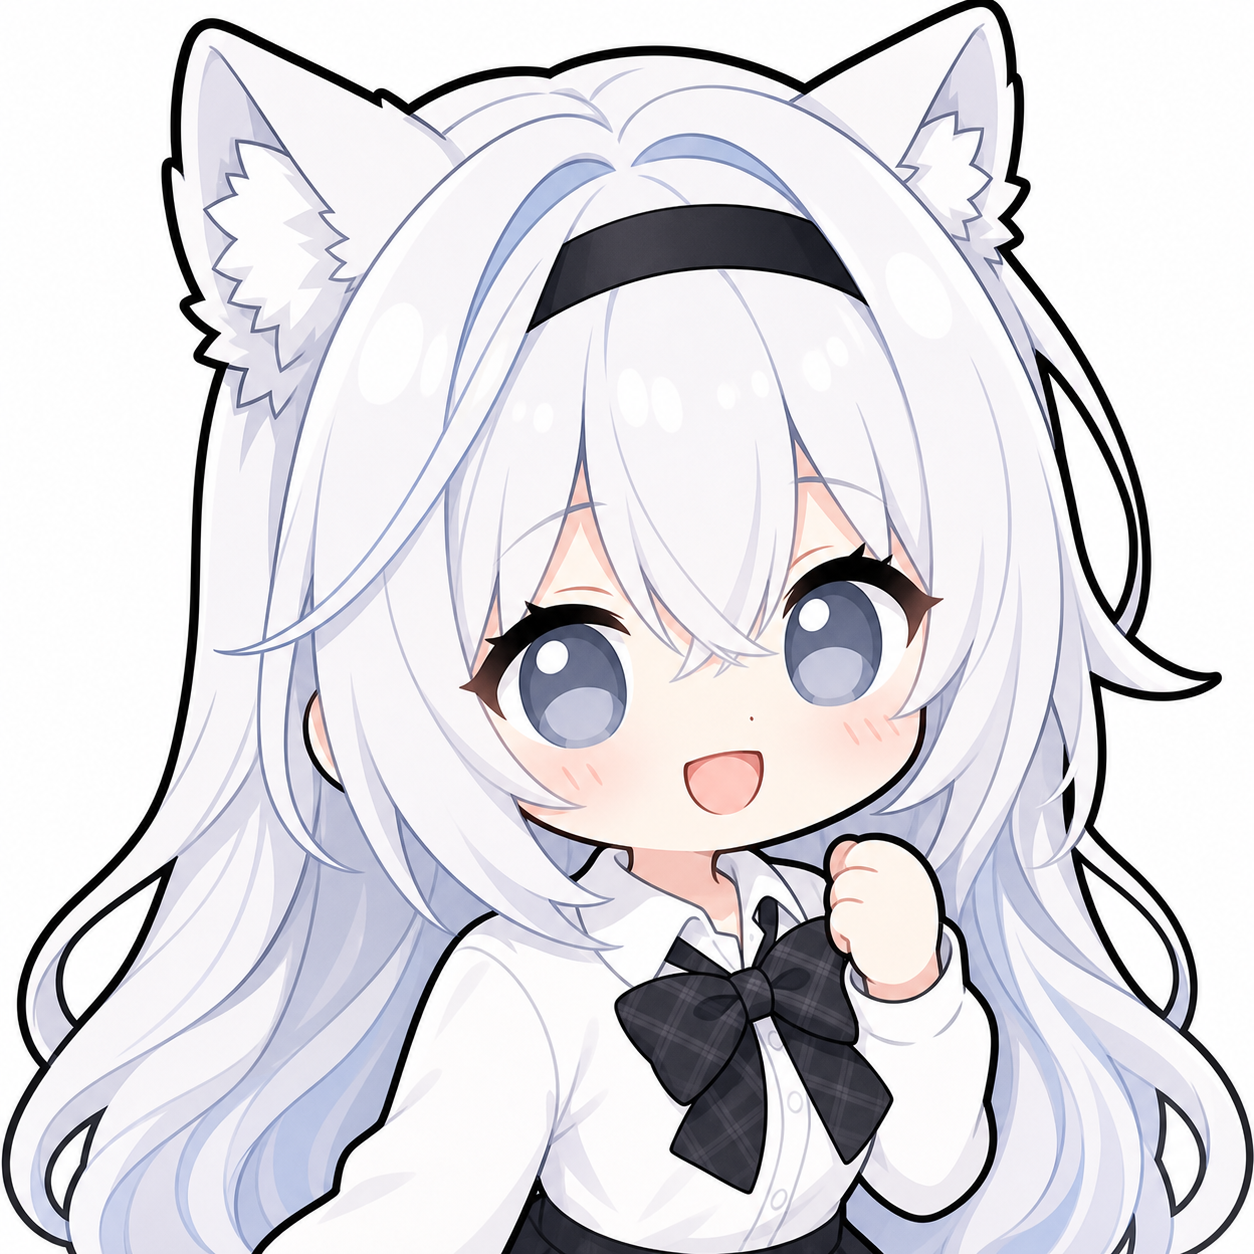
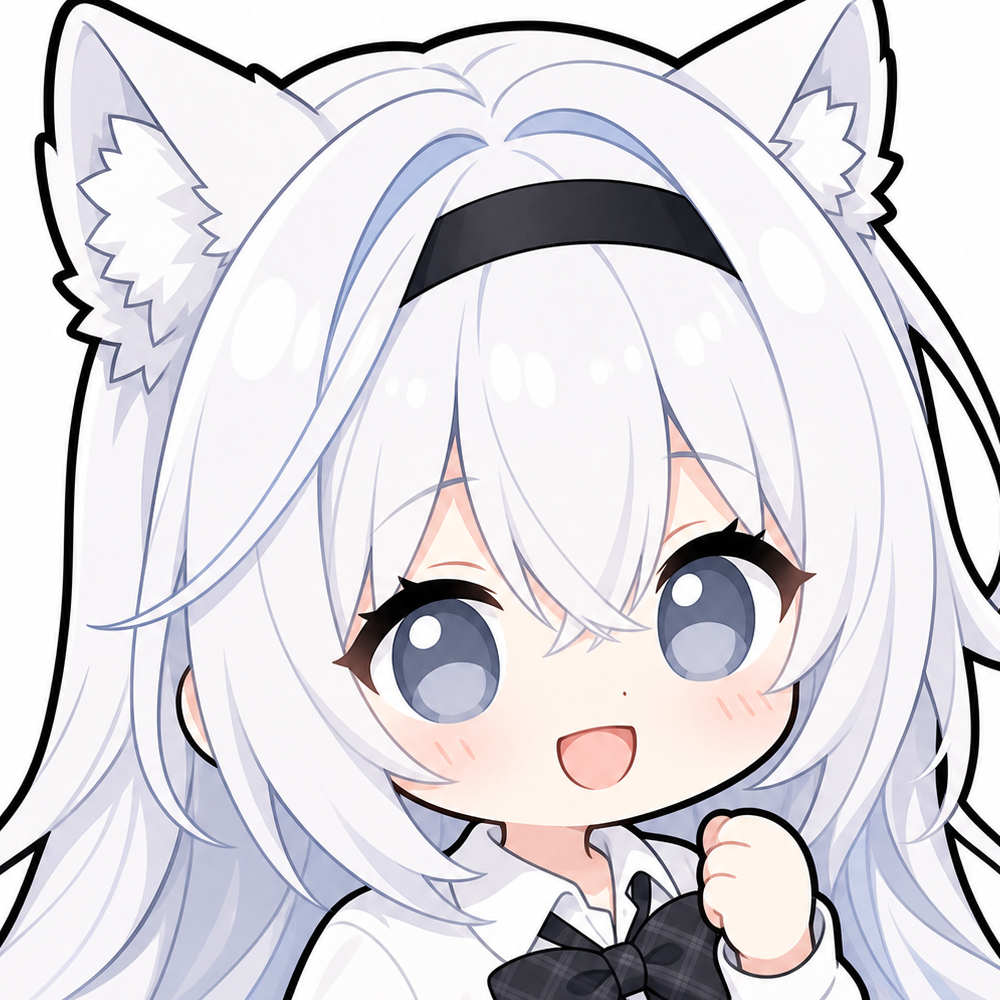
feat: Gemini 风格滚动条、裁剪用户头像、切换 DeepSeek 助手头像
- 聊天列表滚动条改为悬停才显现的细窄胶囊样式（WebKit + Firefox）
- 用户头像裁剪到 1000x1000，去除多余留白
- 助手头像切换为 DeepSeek logo，gemini_icon 保留备选
- 输入框 placeholder 与底部说明微调

diff --git a/src/components/Main/Main.css b/src/components/Main/Main.css
@@ -67,7 +67,7 @@
 
 .main-bottom{
     position: absolute;
-    bottom: 0;
+    bottom: 40px;
     width: 100%;
     max-width: 900px;
     padding: 0px 20px 12px;
@@ -150,11 +150,48 @@
 
 .chat-virtuoso {
     height: 100%;
-    scrollbar-width: none;
+    scrollbar-width: thin;
+    scrollbar-color: transparent transparent;
+    transition: scrollbar-color 0.3s ease;
+}
+
+.chat-virtuoso:hover,
+.chat-virtuoso:focus-within {
+    scrollbar-color: rgba(31, 31, 31, 0.25) transparent;
 }
 
 .chat-virtuoso::-webkit-scrollbar {
-    display: none;
+    width: 12px;
+    height: 12px;
+}
+
+.chat-virtuoso::-webkit-scrollbar-track {
+    background: transparent;
+}
+
+.chat-virtuoso::-webkit-scrollbar-thumb {
+    background-color: transparent;
+    border-radius: 999px;
+    border: 3px solid transparent;
+    background-clip: padding-box;
+    transition: background-color 0.3s ease;
+}
+
+.chat-virtuoso:hover::-webkit-scrollbar-thumb,
+.chat-virtuoso:focus-within::-webkit-scrollbar-thumb {
+    background-color: rgba(31, 31, 31, 0.25);
+}
+
+.chat-virtuoso::-webkit-scrollbar-thumb:hover {
+    background-color: rgba(31, 31, 31, 0.45);
+}
+
+.chat-virtuoso::-webkit-scrollbar-thumb:active {
+    background-color: rgba(31, 31, 31, 0.6);
+}
+
+.chat-virtuoso::-webkit-scrollbar-corner {
+    background: transparent;
 }
 
 .message-item {

diff --git a/src/components/Main/Main.jsx b/src/components/Main/Main.jsx
@@ -8,7 +8,7 @@ import MarkdownRenderer from "../MarkdownRenderer/MarkdownRenderer";
 const MessageRow = ({ message }) => (
   <div className={`message-item ${message.role === "assistant" ? "ai-message" : "user-message"}`}>
     <img
-      src={message.role === "assistant" ? assets.gemini_icon : assets.user_icon}
+      src={message.role === "assistant" ? assets.deepseek_icon : assets.user_icon}
       alt=""
       className="message-avatar"
     />
@@ -123,7 +123,7 @@ const Main = () => {
               value={voiceInputStatus === "recording" ? voiceTranscript || input : input}
               type="text"
               onKeyDown={handleKeyPress}
-              placeholder="在这里输入提示"
+              placeholder="在这里输入"
             />
             <div className="search-actions">
               <img src={assets.gallery_icon} alt="" />
@@ -167,7 +167,6 @@ const Main = () => {
               <p>{voiceError || (voiceInputStatus === "recording" ? "请开始说话，点击麦克风结束录音。" : "正在处理语音内容…")}</p>
             </div>
           )}
-          <p className="bottom-info">chillAI 可能会显示不准确的信息，请仔细检查其回复。</p>
         </div>
       </div>
     </div>

diff --git a/src/assets/assets.js b/src/assets/assets.js
@@ -13,6 +13,7 @@ import message_icon from './message_icon.png'
 import code_icon from './code_icon.png'
 import send_icon from './send_icon.png'
 import gemini_icon from './gemini_icon.png'
+import deepseek_icon from './deepseek_icon.png'
 import trash from './trash_icon.svg'
 import chat_icon from './chat_icon.svg'
 
@@ -32,6 +33,7 @@ export const assets = {
     code_icon,
     send_icon,
     gemini_icon,
+    deepseek_icon,
     trash,
     chat_icon
 }
